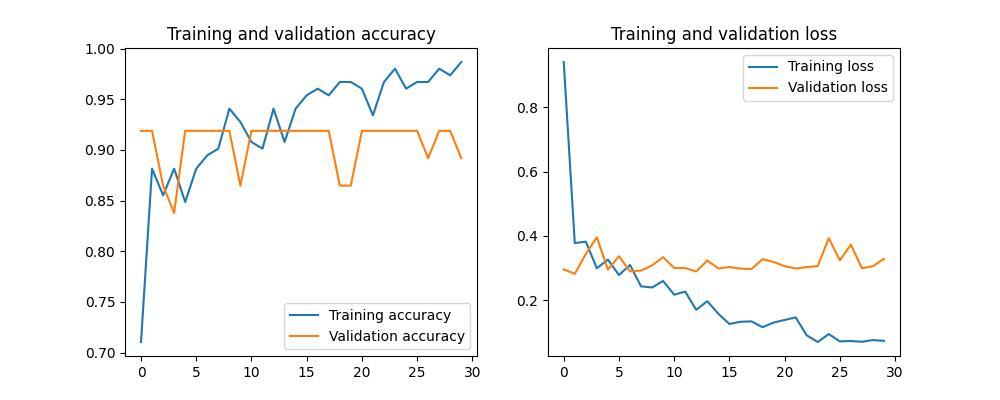
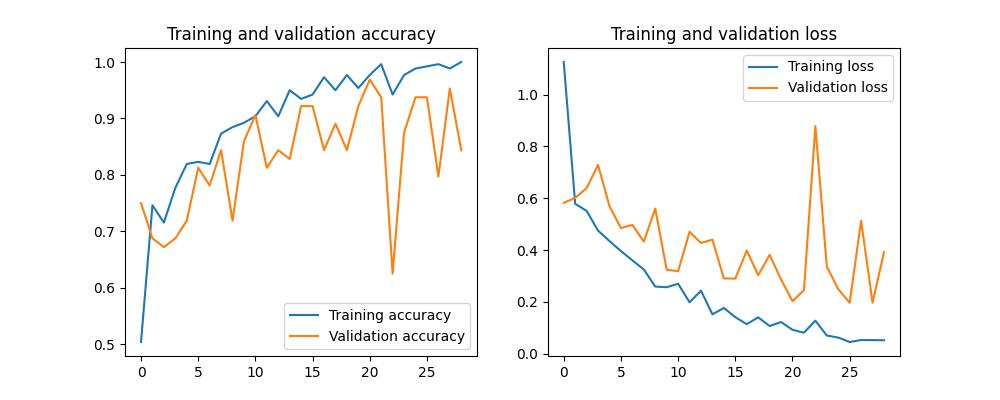
refactor: characterization resnet model with upsampled dataset

diff --git a/surface_crack_detection/classification/models/resnet.py b/surface_crack_detection/classification/models/resnet.py
@@ -9,9 +9,26 @@ import pandas as pd
 import matplotlib.pyplot as plt
 import tensorflow as tf
 import pickle
+from sklearn.utils import resample
 
 # load dataset
 dataset = pd.read_csv('surface_crack_detection/classification/masks_dataset/dataset_final.csv')
+
+# split the dataset into isolated and disseminated classes
+dataset_isolated = dataset[dataset.Label == 'Isolated']
+dataset_disseminated = dataset[dataset.Label == 'Disseminated']
+
+# upsample the disseminated class
+disseminated_upsampled = resample(dataset_disseminated,
+                                    replace=True,
+                                    n_samples=len(dataset_isolated),
+                                    random_state=123)
+
+
+# combine the upsampled disseminated class with the isolated class
+df_upsampled = pd.concat([dataset_isolated, disseminated_upsampled])
+
+dataset = df_upsampled
 
 # split dataset
 train_df, test_df = train_test_split(dataset.sample(
@@ -23,6 +40,7 @@ preprocess_input = tf.keras.applications.resnet.preprocess_input
 # train, validation and test datas
 train_data, valid_data, test_data = split_data(
     train_df, test_df, image_channels=1.0, preprocess_input=preprocess_input)
+
 
 class MyCallback(tf.keras.callbacks.Callback):
     def on_epoch_end(self, epoch, logs={}):
